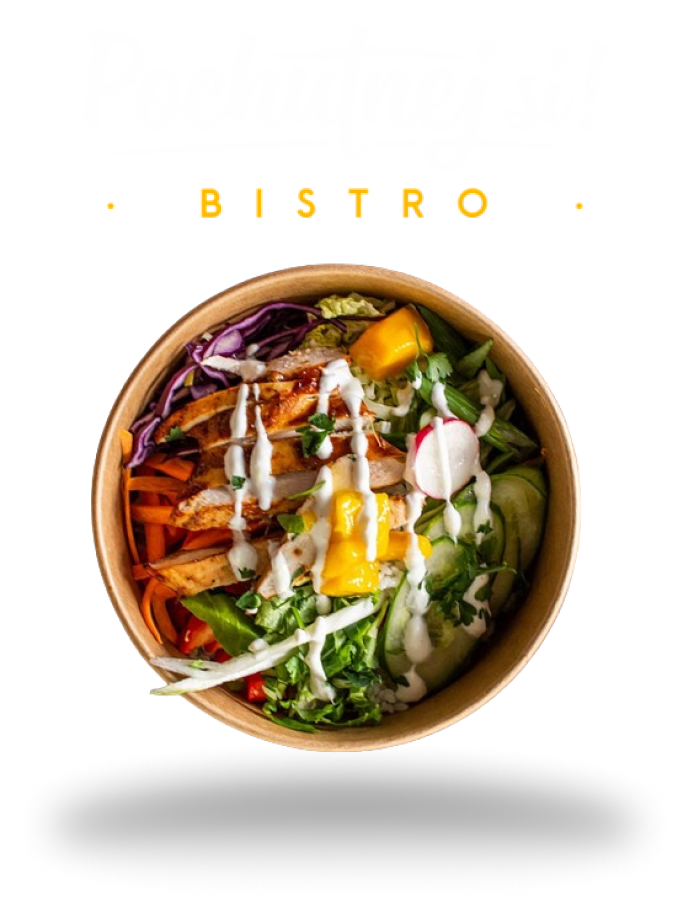
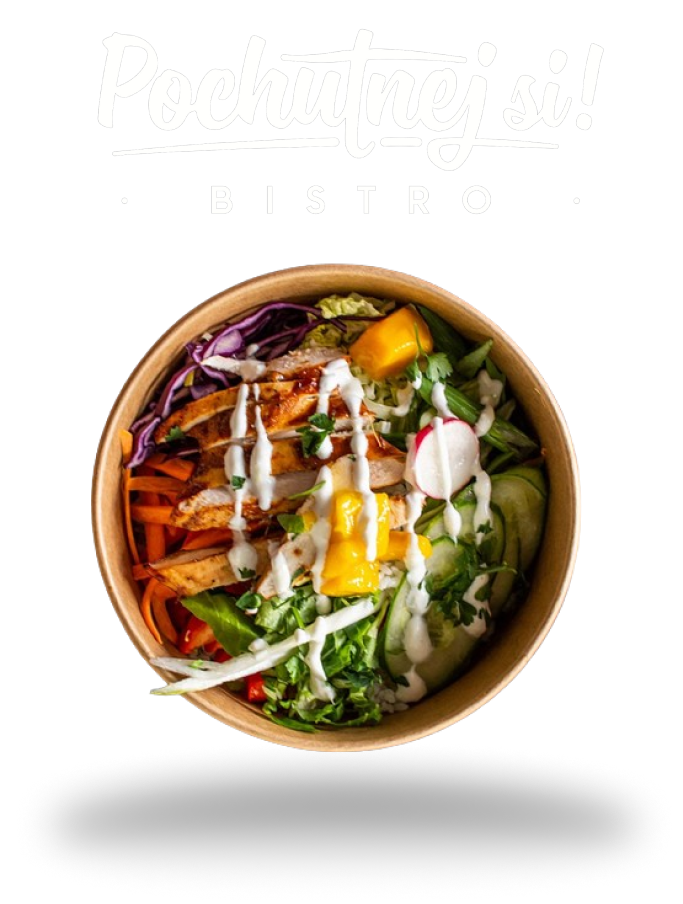
font-body change / orange and yellow colors reversed

diff --git a/src/components/Home4.jsx b/src/components/Home4.jsx
@@ -19,7 +19,7 @@ function Home4() {
           <div className="flex flex-col align-center items-center gap-6 py-6 xl:py-16 xl:flex-row">
             <div className="xl:px-24">
             <span className="font-body font-extrabold xl:text-4xl">Gastromapa Lukáše Hejlíka (2. 1. 2019)</span>
-            <p className=" text-left md:text-2xl"><br></br>Třinec, Pochutnej si Bistro (2.1.19) - byli jsme se v listopadu podívat v Třinci do nového bistra, za kterým stojí Tomáš Nový aka chilliman, který tu už na jiné adrese měl obchod a eshop s deli. A musíme sebekriticky říct, že to úplně předčilo naše očekávání. Jak interiér, který naprosto oživil budovu třineckého architektonického brutalismu (ne, nerozumíme tomu, jen se snažíme říct, že je to tam brutální), tak především nabídka.<br></br><br></br> Se svým kuchařem Davidem Kušteinem, ale zdálo se že celý tým začíná být sehraný, si to teda dávaj. Ten Reuben sandwich byl naproto úžasný! Měli jsme ho asi na šesti místech v Česku, tady nás vysloveně usadil! S delikátním pastrami od Řeznictví & uzenářství U Bobra, řádná dávka čedaru, která skvěle kontrastovala se zelím.<br></br><br></br> Ale nekončí to. Měli jsme i hot dog - takový, že by se na Long Islandu styděli. Nebo ten báječný roastbeef ve focaccie s wakame! Nádherný fusion v ruce. Určitě se dají dát další amérský pecky jako BBQ ribs anebo ve všech patrech propracovaný burger z citlivě namletého a připraveného masa. Slyšeli jsme (ale nebyli jsme v další burgrárně, ale rádi zajdem), že se tu zatím řeší, proč v Třinci dělají burgery i za polovinu. Nemůžeme soudit jak tam, ale ale tady jsou super suroviny, vyváženost, porce opulentní, plating skvělý.<br></br><br></br>O víkendu se prý vaří dál, než za americký streetfood. Jako Ramen v Třinci - omg! Navíc za 75,-!!! Píšeme Albertovi, že dáváme velkou vlajku na Mapu. Zatím to tam bylo krušné, ale dost věříme, že tohle probudí hlad, tedy i hlad po kvalitě. Hlad po tom zaplatit adekvátní peníze za pěkný jídlo. Snad to neselže lidsky, protože kuchařsky je to super! Ještě že tak často v Třinci hrajem, protože sem se budeme rádi vracet!<br></br><br></br>Na čepu IPA od milované krnovské Nachmelená opice (ale taky Pivovar Ogar a tohle se asi bude střídat). Kluci z Coffee Culture sem dávají výběrovku, a k tomu pořád ten obchod s delikatesami. My si odnesli medovou hořčici a BBQ omáčku. Takže hurá, dávejte vědět vaše dojmy, těšíme se na to moc. Pochutnali jste si?</p>
+            <p className=" text-left md:text-2xl font-body"><br></br>Třinec, Pochutnej si Bistro (2.1.19) - byli jsme se v listopadu podívat v Třinci do nového bistra, za kterým stojí Tomáš Nový aka chilliman, který tu už na jiné adrese měl obchod a eshop s deli. A musíme sebekriticky říct, že to úplně předčilo naše očekávání. Jak interiér, který naprosto oživil budovu třineckého architektonického brutalismu (ne, nerozumíme tomu, jen se snažíme říct, že je to tam brutální), tak především nabídka.<br></br><br></br> Se svým kuchařem Davidem Kušteinem, ale zdálo se že celý tým začíná být sehraný, si to teda dávaj. Ten Reuben sandwich byl naproto úžasný! Měli jsme ho asi na šesti místech v Česku, tady nás vysloveně usadil! S delikátním pastrami od Řeznictví & uzenářství U Bobra, řádná dávka čedaru, která skvěle kontrastovala se zelím.<br></br><br></br> Ale nekončí to. Měli jsme i hot dog - takový, že by se na Long Islandu styděli. Nebo ten báječný roastbeef ve focaccie s wakame! Nádherný fusion v ruce. Určitě se dají dát další amérský pecky jako BBQ ribs anebo ve všech patrech propracovaný burger z citlivě namletého a připraveného masa. Slyšeli jsme (ale nebyli jsme v další burgrárně, ale rádi zajdem), že se tu zatím řeší, proč v Třinci dělají burgery i za polovinu. Nemůžeme soudit jak tam, ale ale tady jsou super suroviny, vyváženost, porce opulentní, plating skvělý.<br></br><br></br>O víkendu se prý vaří dál, než za americký streetfood. Jako Ramen v Třinci - omg! Navíc za 75,-!!! Píšeme Albertovi, že dáváme velkou vlajku na Mapu. Zatím to tam bylo krušné, ale dost věříme, že tohle probudí hlad, tedy i hlad po kvalitě. Hlad po tom zaplatit adekvátní peníze za pěkný jídlo. Snad to neselže lidsky, protože kuchařsky je to super! Ještě že tak často v Třinci hrajem, protože sem se budeme rádi vracet!<br></br><br></br>Na čepu IPA od milované krnovské Nachmelená opice (ale taky Pivovar Ogar a tohle se asi bude střídat). Kluci z Coffee Culture sem dávají výběrovku, a k tomu pořád ten obchod s delikatesami. My si odnesli medovou hořčici a BBQ omáčku. Takže hurá, dávejte vědět vaše dojmy, těšíme se na to moc. Pochutnali jste si?</p>
             </div>
             <img src={lukas} className="h-72 md:h-[30rem]"></img>
           </div>

diff --git a/src/components/Home5.jsx b/src/components/Home5.jsx
@@ -8,7 +8,7 @@ function Home5() {
           <a href="https://pochutnej-si.choiceqr.com/booking" className='p-3 lg:p-4 bg-white text-s xs:text-xl md:text-2xl rounded-xl text-orange font-header drop-shadow-md hover:bg-yellow hover:text-white'>ONLINE REZERVACE STOLU</a>
         </div>
         <div className='text-center px-6 text-xs lg:text-lg text-white'>
-          <p>Podle zákona o evidenci tržeb je prodávající povinen vystavit kupujícímu účtenku. Zároveň je povinen zaevidovat přijatou tržbu <br></br>u správce daně online; v případě technického výpadku pak nejpozději do 48 hodin.</p>
+          <p class="font-body">Podle zákona o evidenci tržeb je prodávající povinen vystavit kupujícímu účtenku. Zároveň je povinen zaevidovat přijatou tržbu <br></br>u správce daně online; v případě technického výpadku pak nejpozději do 48 hodin.</p>
         </div>
       </div>
     )

diff --git a/src/components/Footer.jsx b/src/components/Footer.jsx
@@ -10,7 +10,7 @@ function Footer() {
         <div className="bg-black flex flex-col items-center lg:flex-row py-8 px-20 gap-6">
         <div className="flex flex-col gap-6 items-center lg:items-start flex-1">
         <img src={logo} className="w-48"></img>
-        <p className="text-white text-center text-xs">Copyright © 2024 Pochutnej Si! Bistro | All Rights Reserved </p>
+        <p className="text-white text-center text-xs font-body">Copyright © 2024 Pochutnej Si! Bistro | All Rights Reserved </p>
         </div>
         <div className='flex flex-col items-center gap-1 lg:items-end flex-1'>
           <b className="text-orange text-center font-bold font-header lg:text-xl">Kontaktujte nás</b>

diff --git a/tailwind.config.js b/tailwind.config.js
@@ -21,10 +21,10 @@ module.exports = {
       transparent: 'transparent',
       'black': '#18151a',
       'white': '#ffffff',
-      'orange': '#EB8B2B',
+      'orange': '#FCBA08',
       'gray': '#e2e8f0',
       'lightgray': '#94a3b8',
-      'yellow': '#FCBA08',
+      'yellow': '#EB8B2B',
     },
     backgroundImage: {
       'aboutusmobile' : "url('/src/assets/img/aboutus.png')",

diff --git a/src/index.css b/src/index.css
@@ -13,7 +13,7 @@ body {
     sans-serif;
   -webkit-font-smoothing: antialiased;
   -moz-osx-font-smoothing: grayscale;
-  background-color: #EB8B2B;
+  background-color: #FCBA08;
 }
 
 code {
@@ -28,5 +28,5 @@ code {
 
 @font-face {
   font-family: "Body";
-  src: url("./assets/fonts/Helvetica\ CE\ Medium.otf");
+  src: url("./assets/fonts/II\ Vorkurs\ Medium.ttf");
 }
